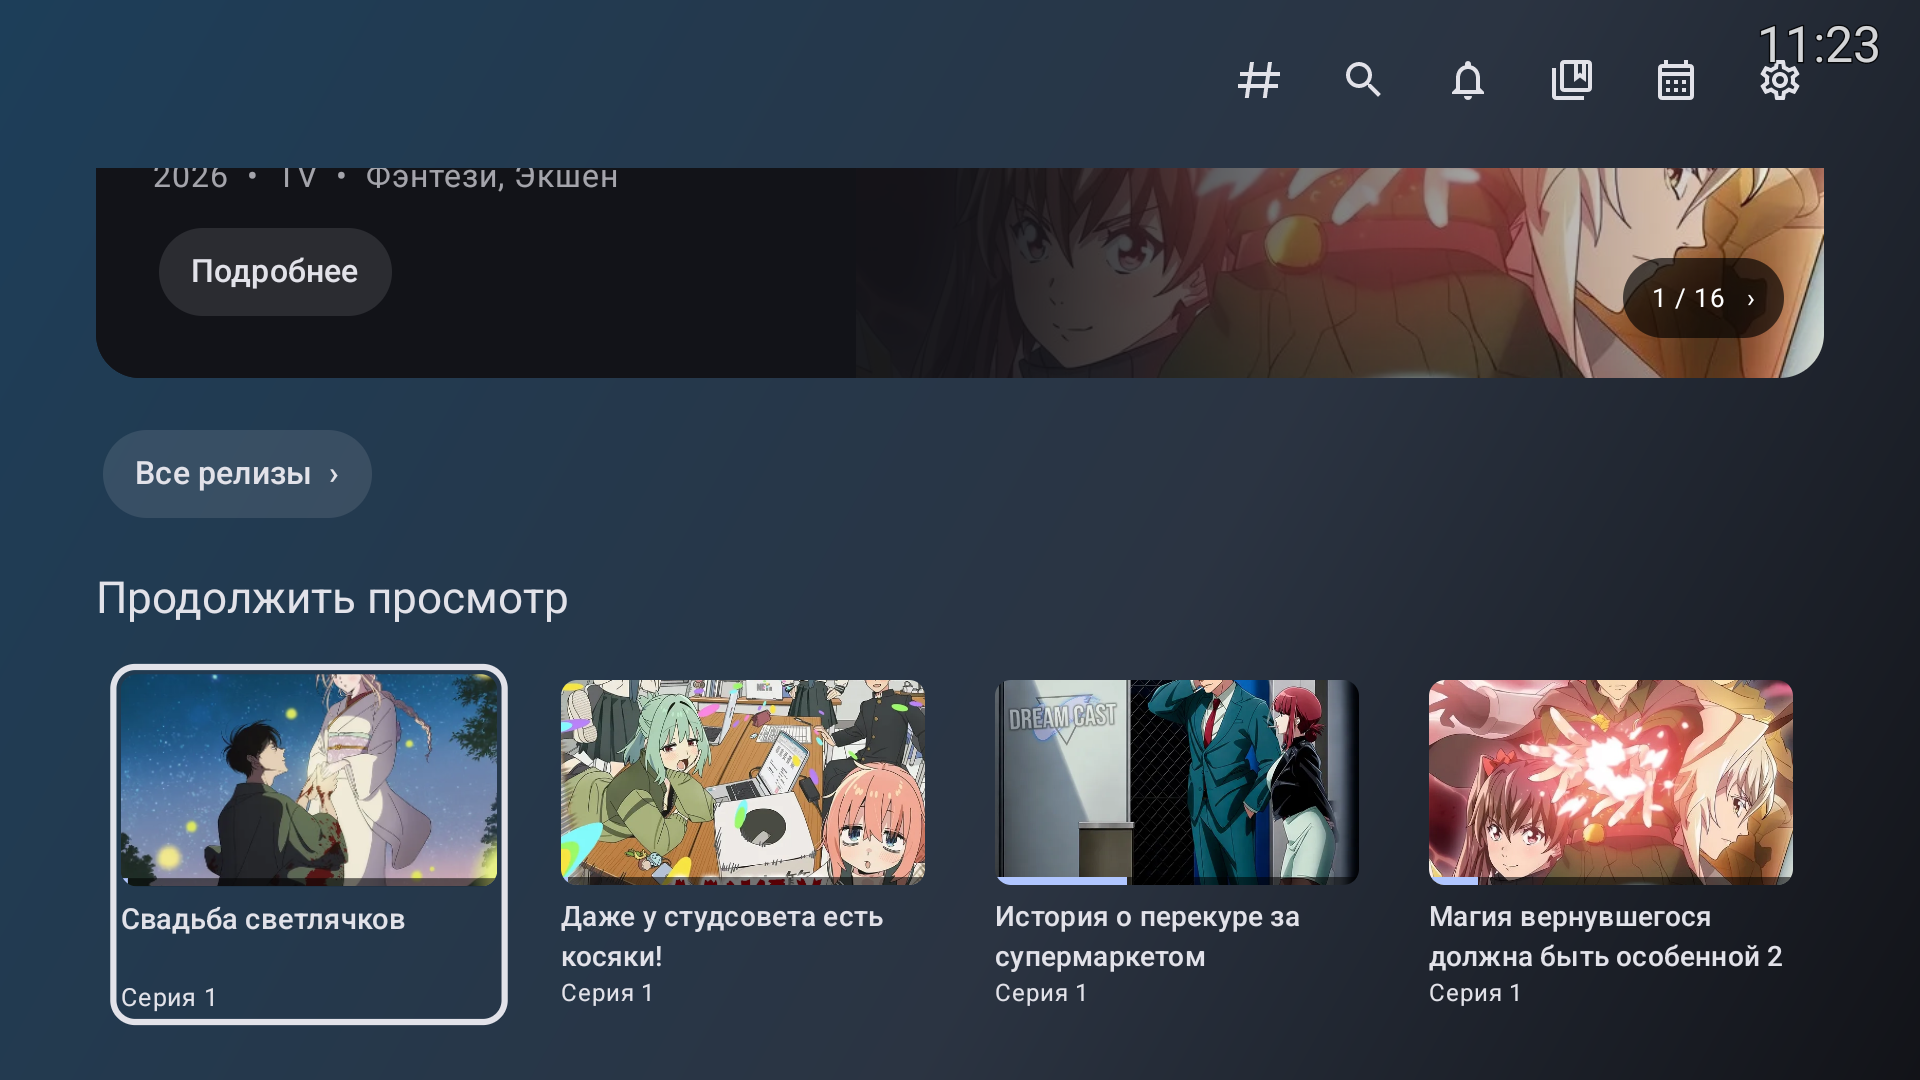
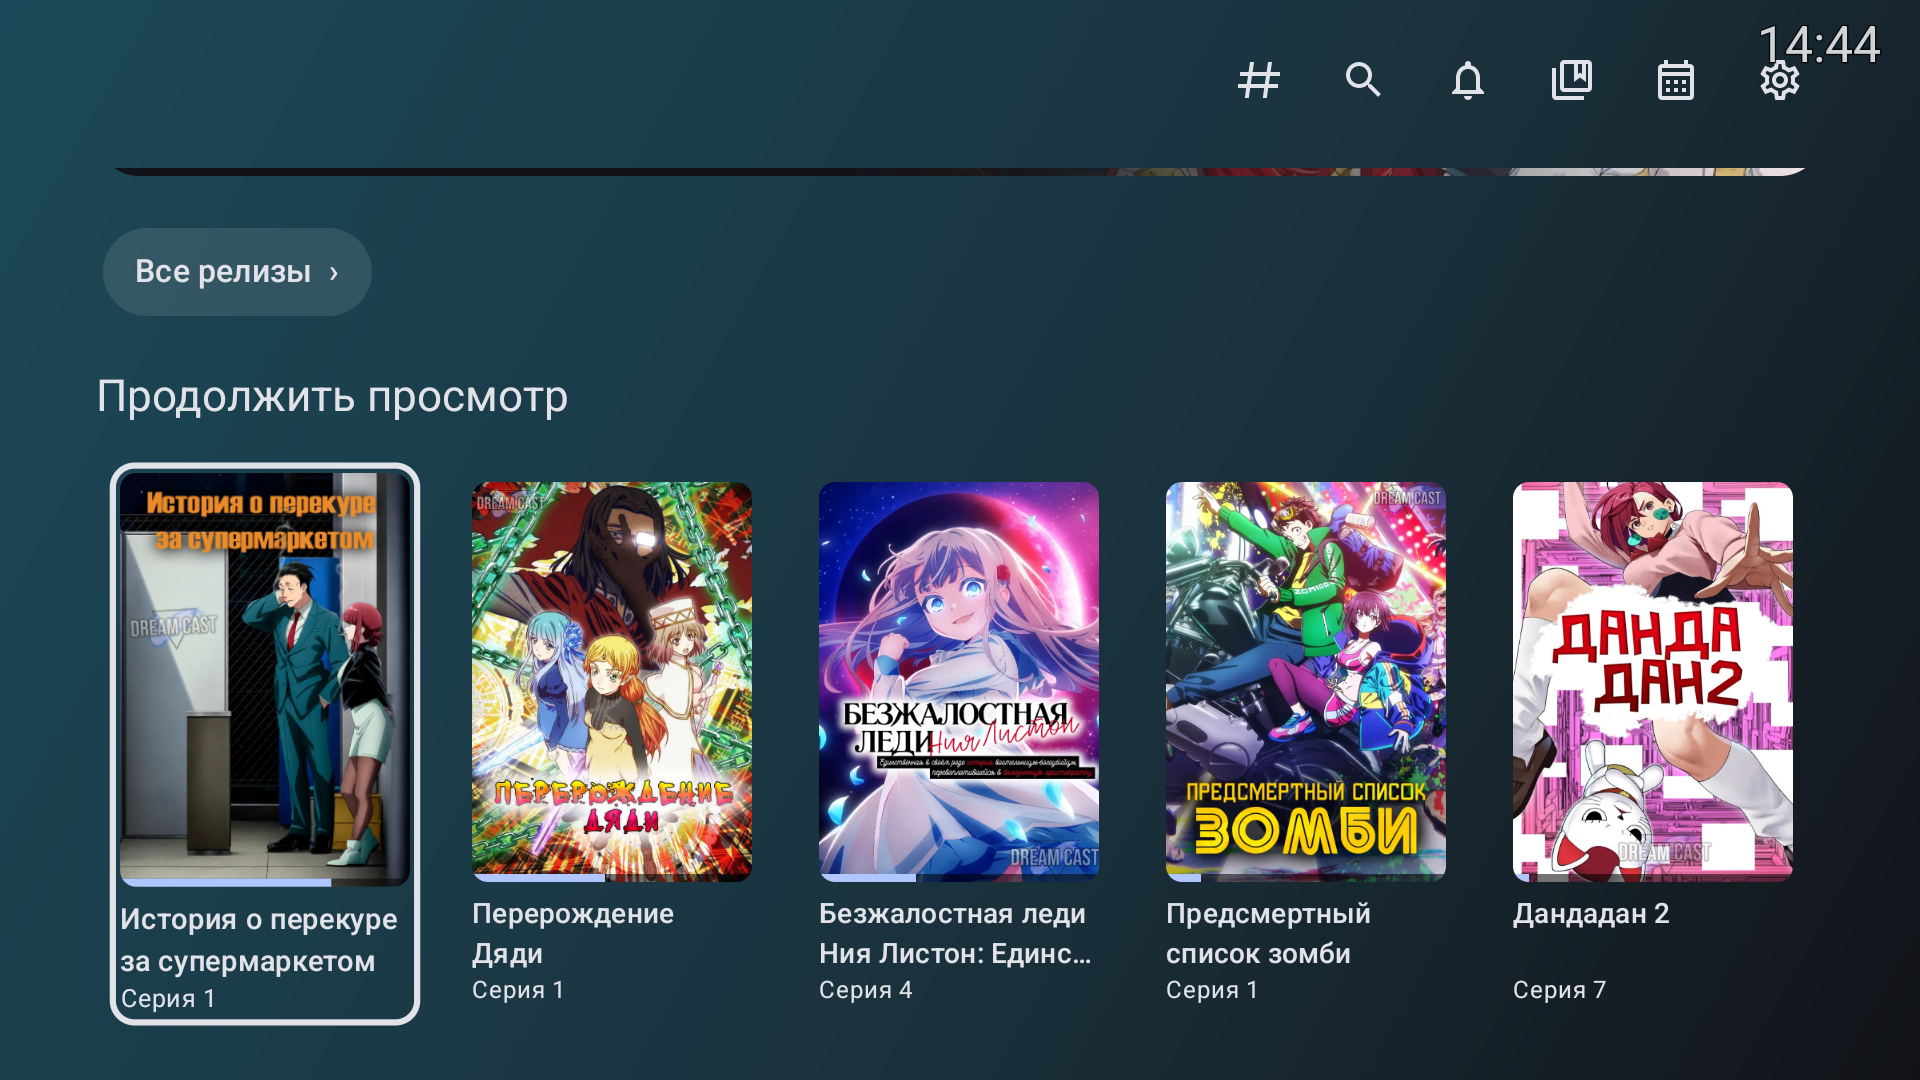
docs: add release notes for v0.9.9 and retake the home rows screenshot
v0.9.8 was released before the decoder and colour fixes landed, so
their notes move from v0.9.8 (restored to what was released) to
v0.9.9. The home rows screenshot now shows «Продолжить просмотр» with
portrait covers.

diff --git a/docs/release-notes/RELEASE_NOTES_v0.9.9.md b/docs/release-notes/RELEASE_NOTES_v0.9.9.md
@@ -1,0 +1,41 @@
+# Dream Cast TV v0.9.9
+
+Единый нативный APK для Android TV и Google TV на Kotlin и Jetpack Compose.
+Версия — `0.9.9`, Android versionCode — `909001`. Поддерживаются ARMv7 и ARM64,
+минимальная версия Android — 6.0 (API 23).
+
+## Плеер
+
+- **Переключение декодера без зависаний.** Если выбранный режим даёт тот же
+  декодер, что уже работает (например, «Авто» уже на аппаратном), плеер не
+  перезапускает его, а только сохраняет выбор. На телевизоре Candy с Google TV
+  такой перезапуск аппаратного декодера вешал всю систему до отключения
+  питания. При настоящей смене декодера между старым и новым выдерживается
+  пауза в секунду.
+- **Меню показывает рабочий декодер:** «Декодирование · Авто (аппаратное)» или
+  «Авто (dav1d)» — видно, изменит ли что-то выбор «Аппаратное».
+- **Цвета аппаратного AV1 берутся из самого потока**, как в mpv. Раньше плеер
+  явно передавал аппаратному декодеру цветовые параметры видео (BT.709,
+  ограниченный диапазон, SDR); на Candy это давало желтизну, хотя dav1d,
+  YouTube и mpv на том же телевизоре показывали цвета правильно. Значения в
+  потоке те же, поэтому на других устройствах ничего не меняется; HDR-видео
+  сохраняет свои параметры. На Streamer цвета не изменились; на Candy
+  исправление проверит владелец телевизора.
+
+## Для разработки
+
+- В журнал плеера (`DCTV_DECODER`) пишутся цветовые параметры потока.
+- Снимок главной в README переснят: ряд «Продолжить просмотр» с вертикальными
+  обложками.
+
+## Установка и совместимость
+
+Файл выпуска — `DreamCast-TV-v0.9.9-unified-release.apk`; рядом публикуется
+контрольная сумма SHA-256. Версии 0.9.5–0.9.8 предложат обновиться сами.
+Подпись та же, данные сохраняются. Переход с 0.8.x и более ранних версий
+по-прежнему требует чистой установки.
+
+Проверено на Google TV Streamer (Android 14, аппаратный AV1): «Авто» →
+«Аппаратное» без перезапуска декодера, переходы «Аппаратное» → dav1d →
+«Авто», цвета аппаратного AV1, подпись рабочего декодера в меню. Остальное
+покрыто unit-тестами.

diff --git a/docs/release-notes/RELEASE_NOTES_v0.9.8.md b/docs/release-notes/RELEASE_NOTES_v0.9.8.md
@@ -27,16 +27,6 @@
 
   На Chromecast with Google TV 1080p держался на спокойных сериях и
   откатывался на 720p на тяжёлых; на Cosmos попытка 1080p вернулась на 720p.
-- **Переключение декодера без зависаний.** Если выбранный режим даёт тот же
-  декодер, что уже работает (например, «Авто» уже на аппаратном), плеер не
-  перезапускает его, а только сохраняет выбор: на телевизоре Candy с Google TV
-  такой перезапуск вешал всю систему. При настоящей смене декодера между
-  старым и новым выдерживается пауза в секунду.
-- **Меню показывает рабочий декодер:** «Декодирование · Авто (аппаратное)» или
-  «Авто (dav1d)».
-- **Цвета аппаратного AV1 берутся из самого потока**, как в mpv: на Candy
-  аппаратный декодер с явно заданными цветовыми параметрами давал желтизну.
-  На Streamer цвета не изменились; на Candy исправление ещё не проверено.
 
 ## Главная и навигация
 
